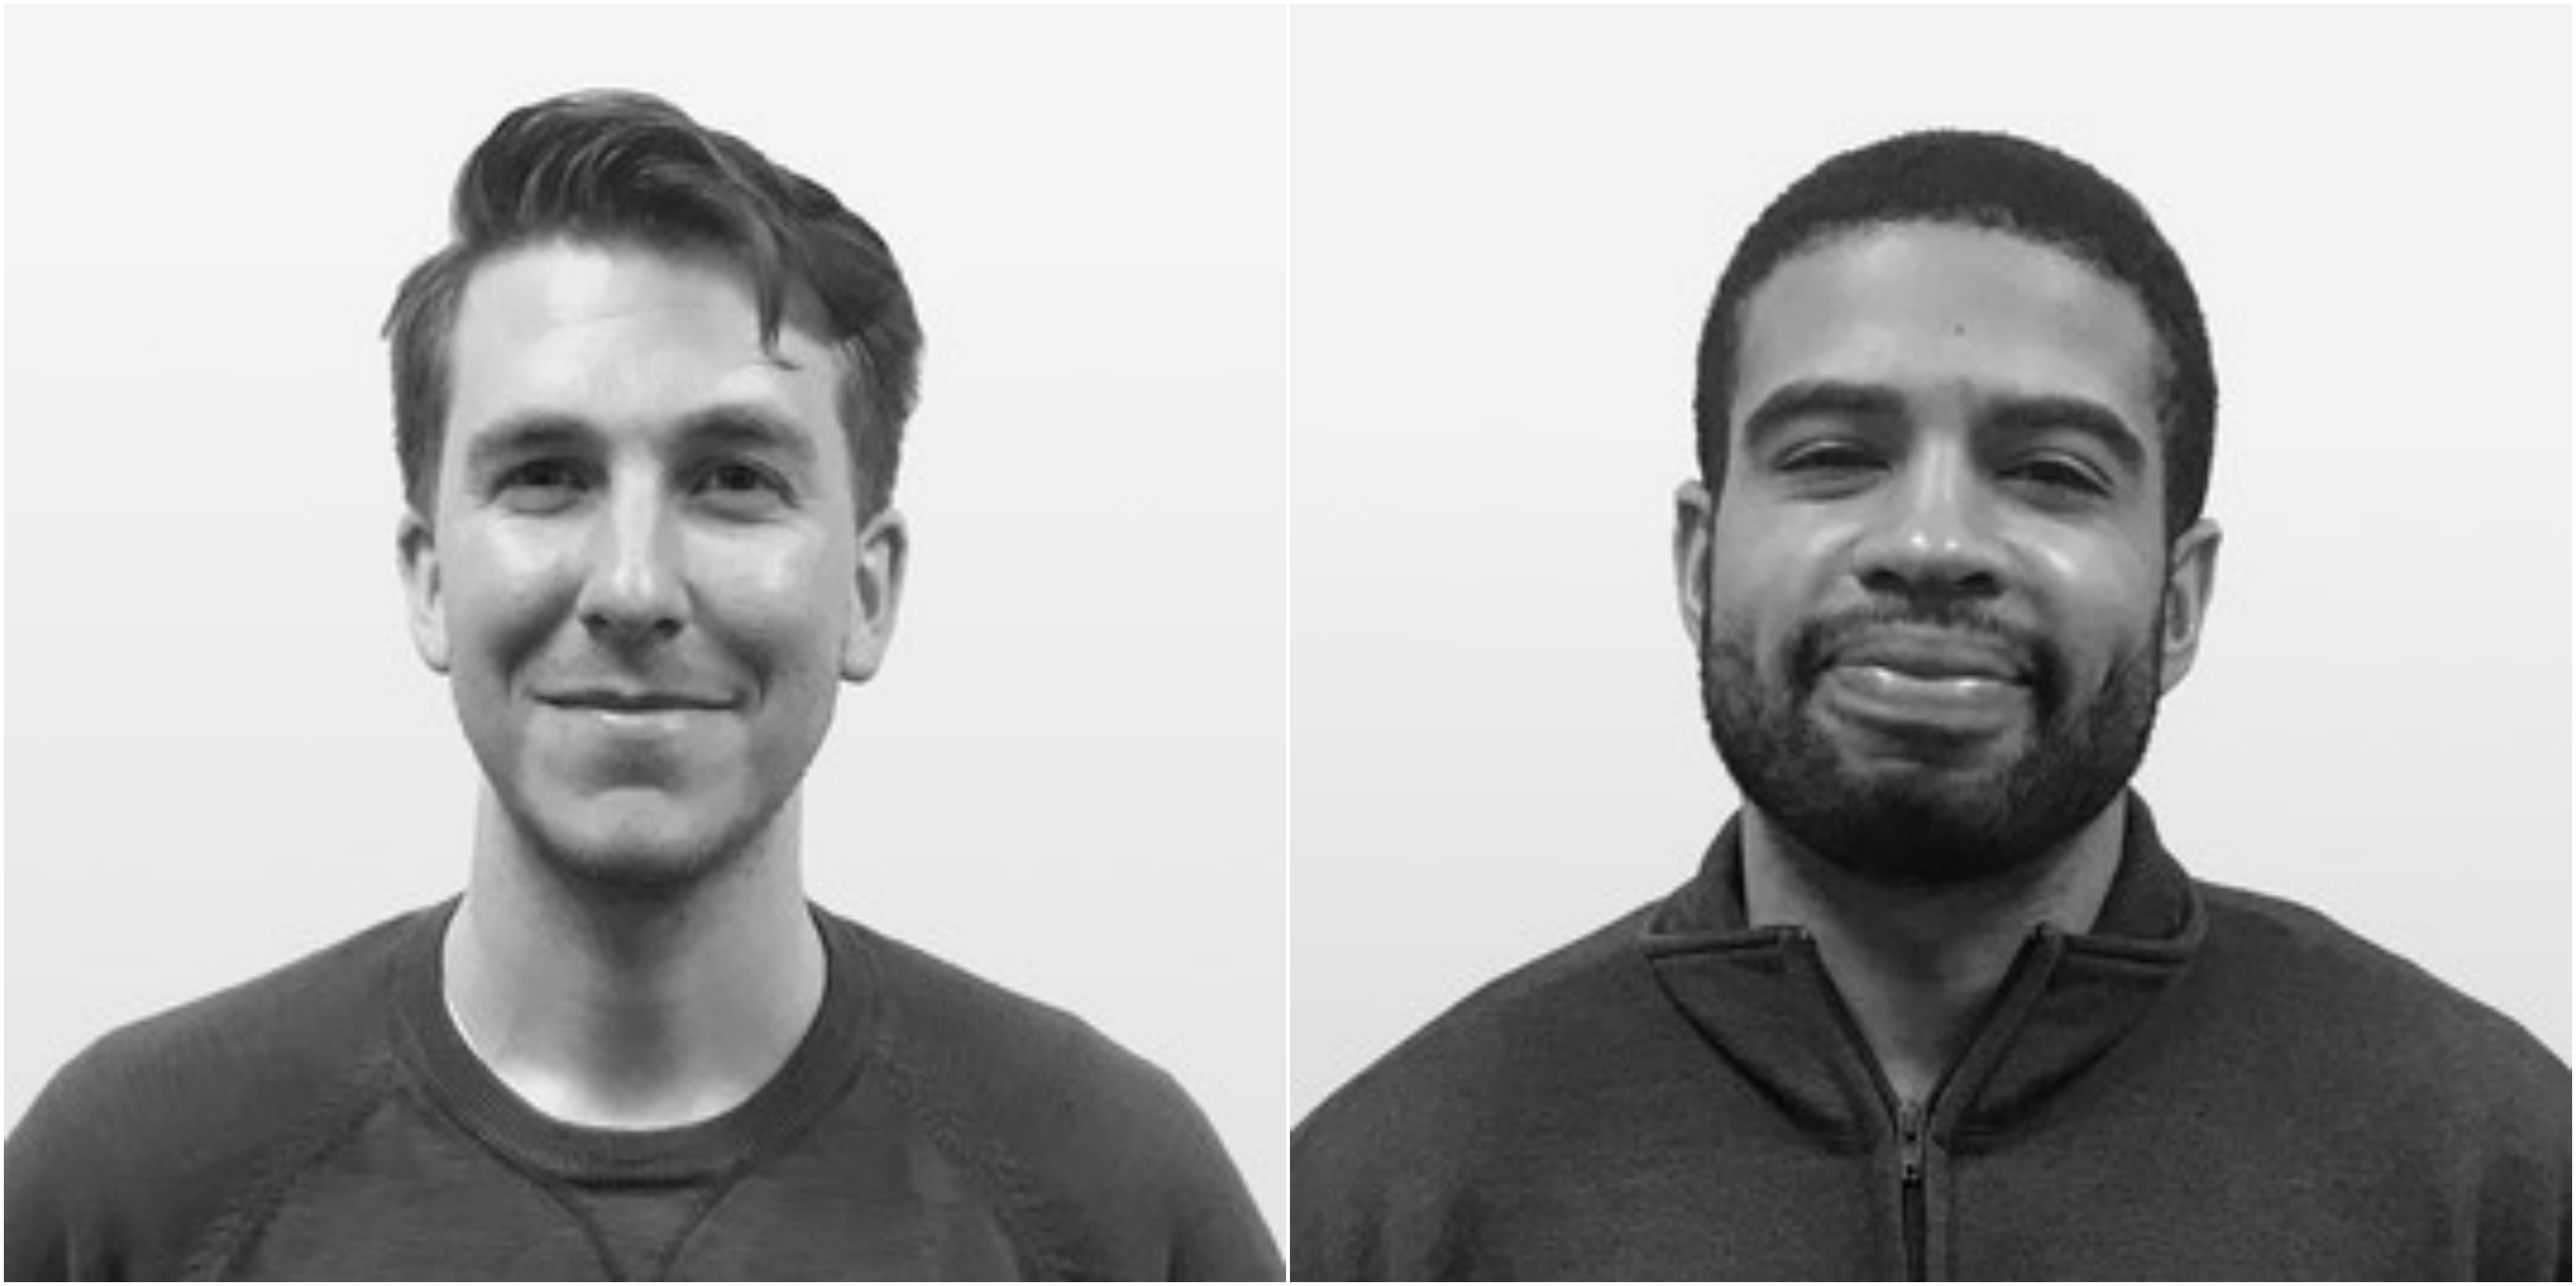
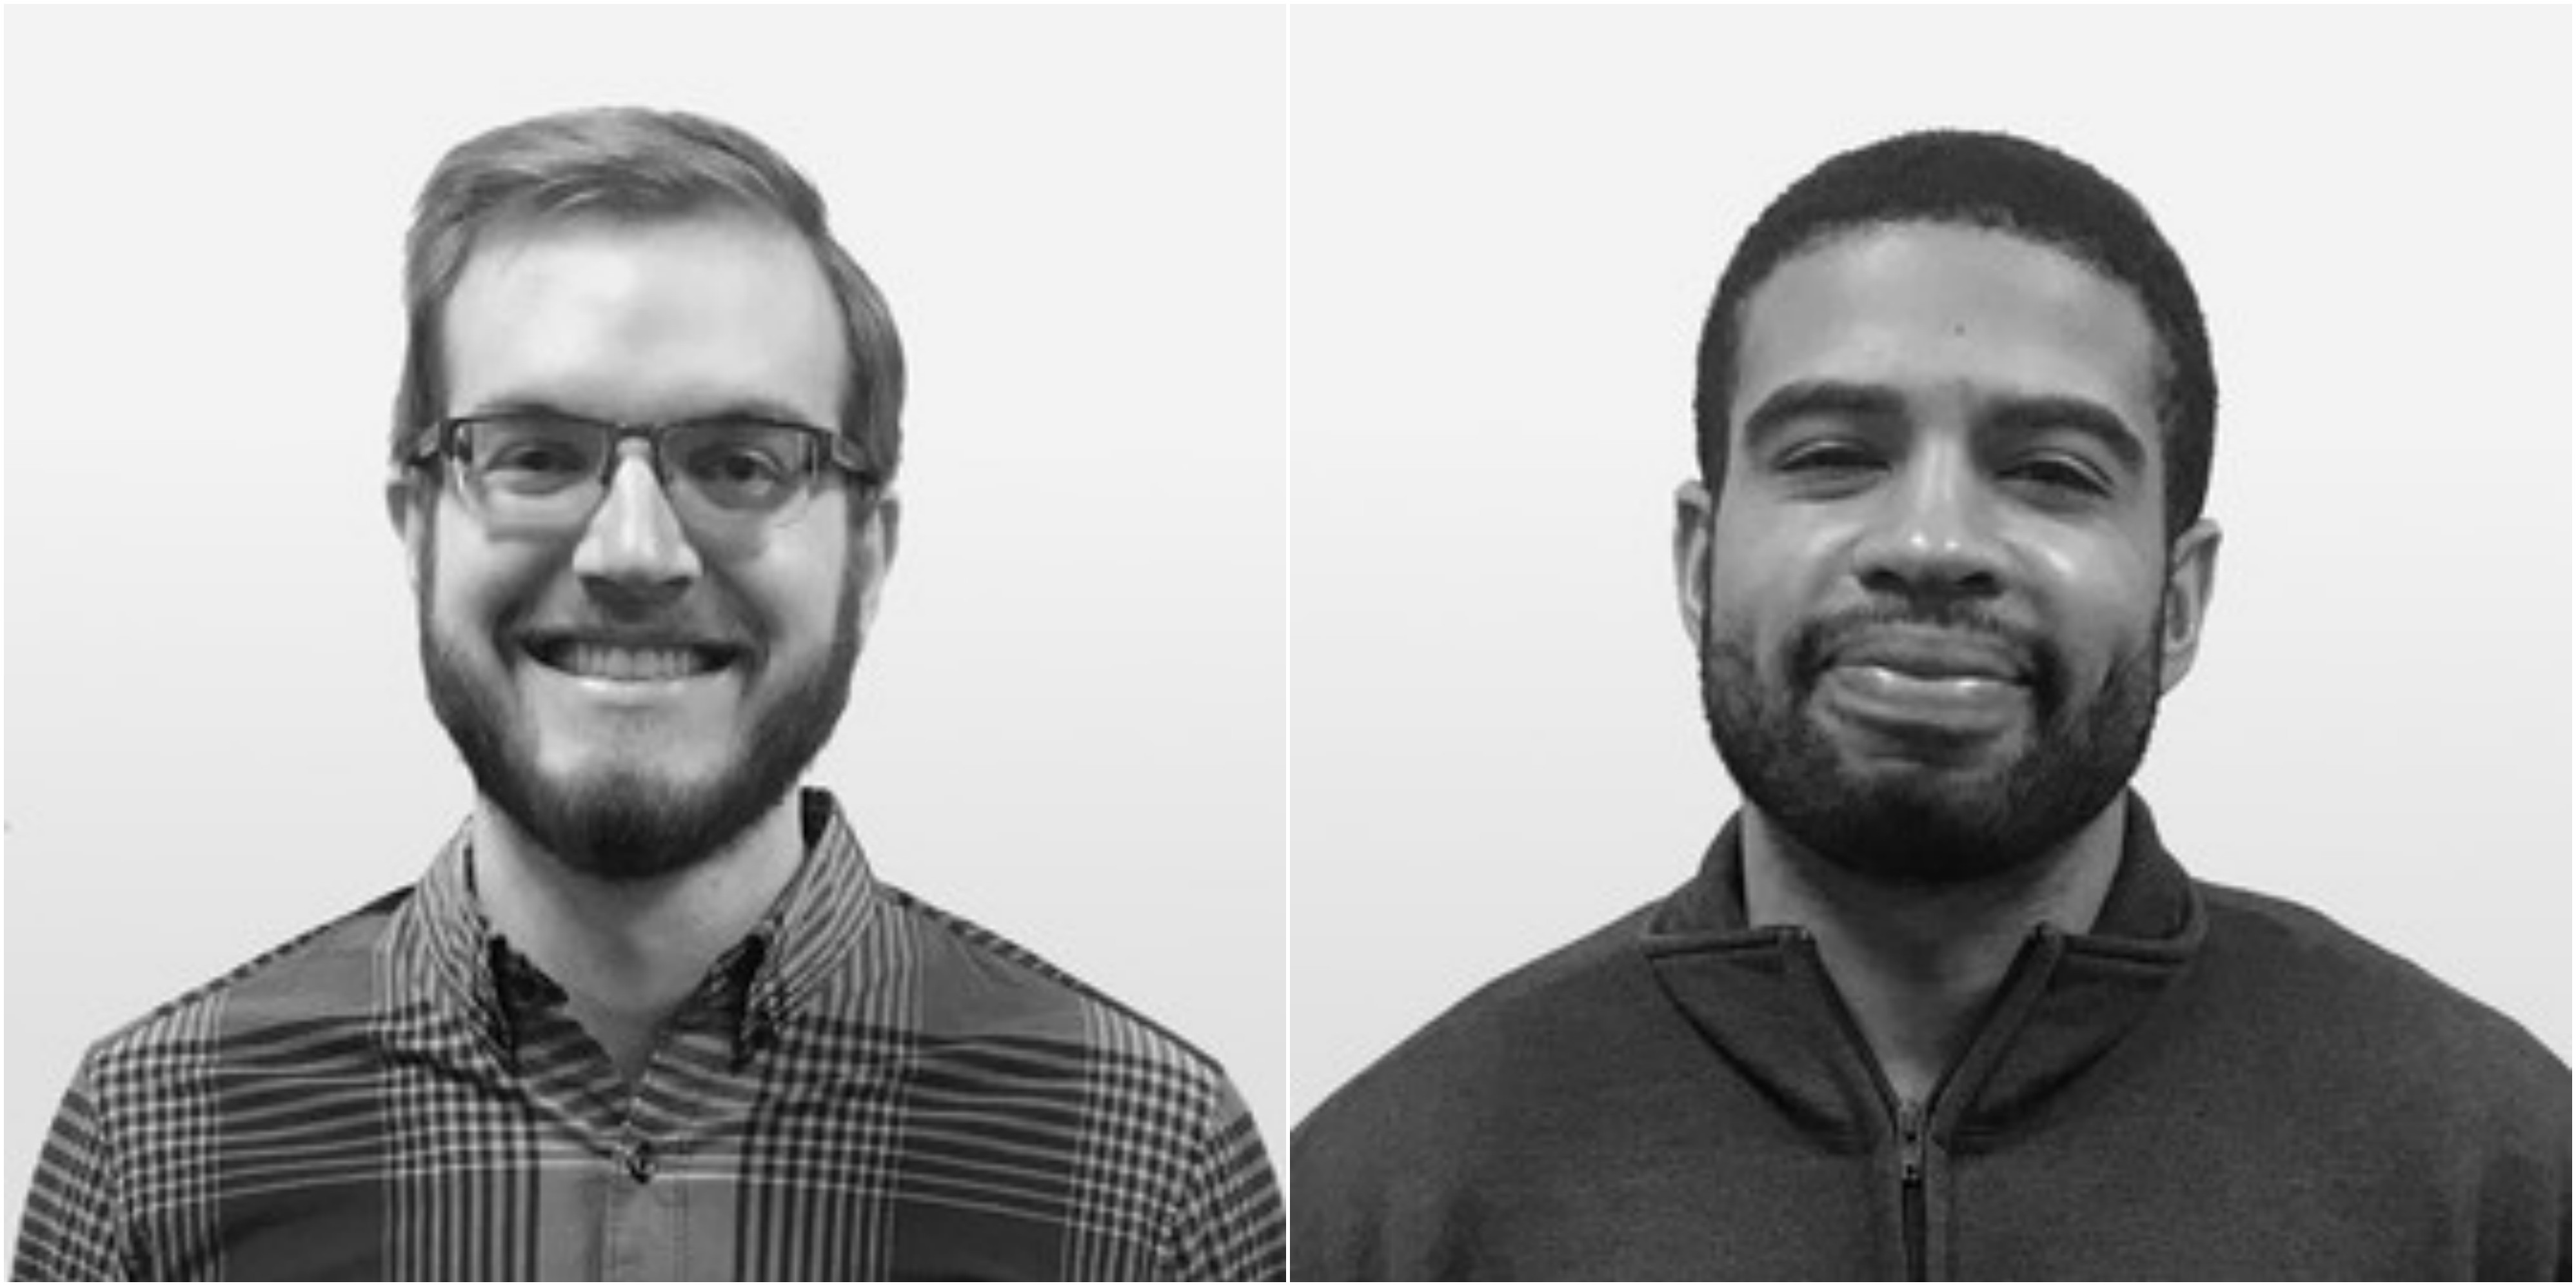
News and StephenandSean picture

Changed region(s): [[0.0, 0.0622, 0.4967, 1.0]]

diff --git a/news.html b/news.html
@@ -164,7 +164,7 @@ http://themeforest.net/user/owwwlab/
           <div class="year">2018</div>
                           </div>
                           <div class="aside">
-                            <div id="new13"><h3 class="title">The group is assembled in Maryville for the 2018 ICL annual retreat.</h3></div>
+                            <div id="new13"><h3 class="title">Dr.Taufer joined the <a href="https://www.icl.utk.edu/" target="_blank"> ICL</a> annual retreat and presented our research at the meeting. </h3></div>
                           </div>
                         </div> 
                       </div>

diff --git a/index.html b/index.html
@@ -297,7 +297,7 @@ http://themeforest.net/user/owwwlab/
                     <div class="contents">
                       <div class="item-meta"><span class="date">21 Aug 2018</span></div>
                       <div class="title-wrapper">
-                        <h2 class="title">Group ICL 2018 in Maryville</h2>
+                        <h2 class="title">Dr. Taufer at ICL annual retreat </h2>
                       </div>
                     </div></a><a href="news.html#new12"  class="book-el skin-blue shadow set-bg"><img src="assets/img/news/ModSim18.jpg" class="set-me">
                     <div class="contents">
